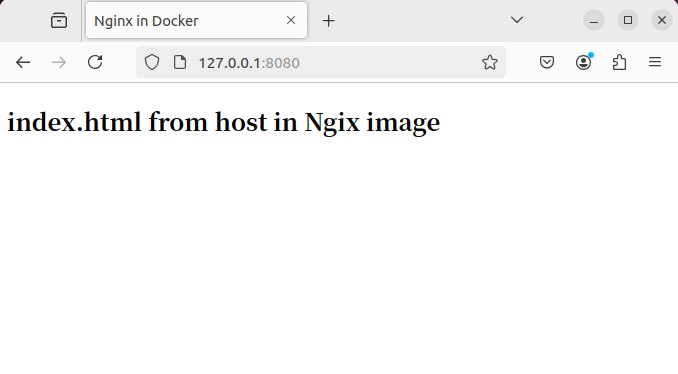
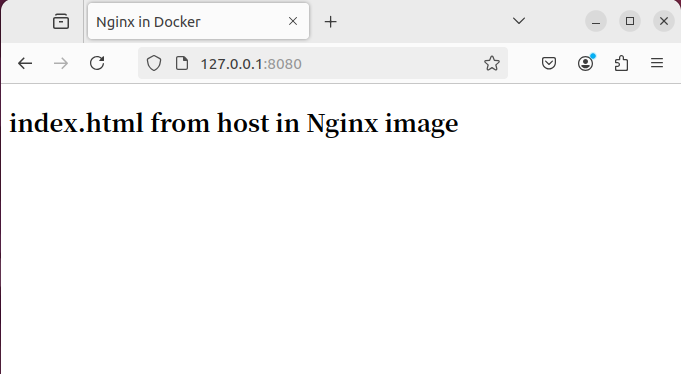
Fixes + GA

diff --git a/README.md b/README.md
@@ -1,27 +1,7 @@
-# Minimal Mistakes remote theme starter
+# 二ラボ Site
 
-Click [**Use this template**](https://github.com/mmistakes/mm-github-pages-starter/generate) button above for the quickest method of getting started with the [Minimal Mistakes Jekyll theme](https://github.com/mmistakes/minimal-mistakes).
+[https://nilabo.github.io/](https://nilabo.github.io/)で見られます。
 
-Contains basic configuration to get you a site with:
+サイトのテーマは[Minimal Mistakes](https://mademistakes.com/work/jekyll-themes/minimal-mistakes/)です。
 
-- Sample posts.
-- Sample top navigation.
-- Sample author sidebar with social links.
-- Sample footer links.
-- Paginated home page.
-- Archive pages for posts grouped by year, category, and tag.
-- Sample about page.
-- Sample 404 page.
-- Site wide search.
-
-Replace sample content with your own and [configure as necessary](https://mmistakes.github.io/minimal-mistakes/docs/configuration/).
-
----
-
-## Troubleshooting
-
-If you have a question about using Jekyll, start a discussion on the [Jekyll Forum](https://talk.jekyllrb.com/) or [StackOverflow](https://stackoverflow.com/questions/tagged/jekyll). Other resources:
-
-- [Ruby 101](https://jekyllrb.com/docs/ruby-101/)
-- [Setting up a Jekyll site with GitHub Pages](https://jekyllrb.com/docs/github-pages/)
-- [Configuring GitHub Metadata](https://github.com/jekyll/github-metadata/blob/master/docs/configuration.md#configuration) to work properly when developing locally and avoid `No GitHub API authentication could be found. Some fields may be missing or have incorrect data.` warnings.
+GitHub Pagesでremote themeとして使っています。

diff --git a/_posts/2024-09-11-docker.md b/_posts/2024-09-11-docker.md
@@ -8,7 +8,7 @@ categories:
 tags:
   - Docker
 header:
-  teaser: "/assets/images/docker.png"
+  teaser: "/assets/images/docker/docker.png"
 ---
 <img src="{{ "/assets/images/docker/docker.png" | relative_url }}" alt="Docker logo" width="200"/>{: .align-center}
 
@@ -224,7 +224,7 @@ touch /home/nilabo/host-html/index.html
   <title>Nginx in Docker</title>
 </head>
 <body>
-  <h2>index.html from host in Ngix image</h2>
+  <h2>index.html from host in Nginx image</h2>
 </body>
 </html>
 ```
